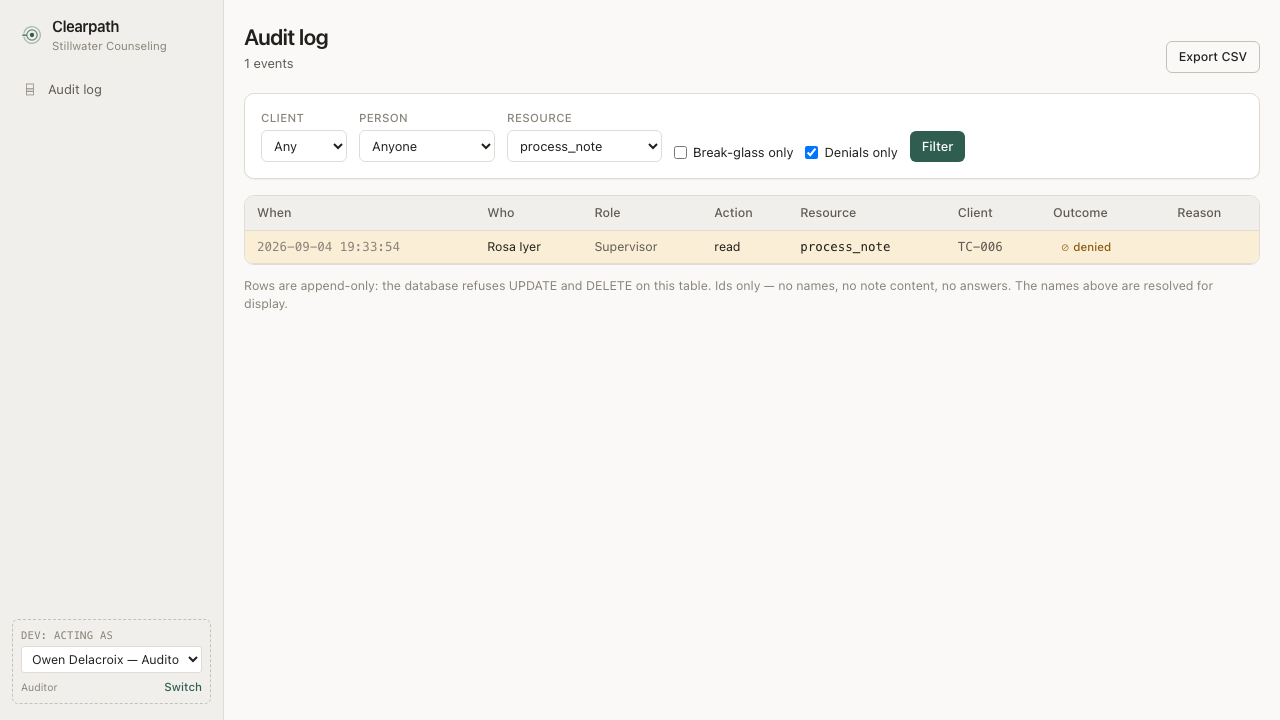
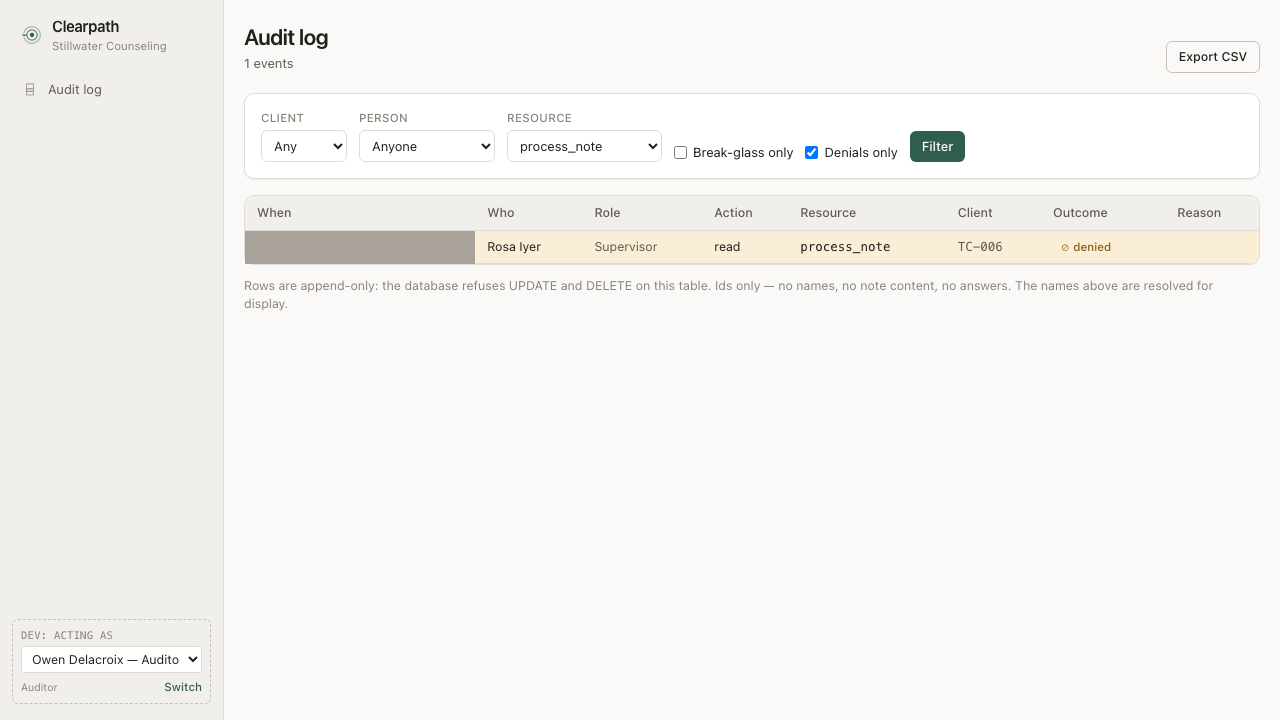
The one picture that could never pass twice
The gate is green — 1,252 unit tests, 18 e2e specs against a production
build — but `npm run shots` left `audit-log.png` modified on every run.
The seed is date-pinned, so three of the four captures are byte-identical
run to run; the audit row's stamp is not, because `AuditEvent.at` defaults
to the database clock rather than the app's injected one. That default is
correct — the audit timestamp is the one value the application should not
get to choose — so the fix belongs in the capture, not the seed.

A picture that always differs teaches you to ignore the time it differs
for a reason, which is how the deleted status tokens got through.

Changed region(s): [[0.1875, 0.3056, 0.375, 0.3667]]

diff --git a/e2e/screenshots.spec.ts b/e2e/screenshots.spec.ts
@@ -43,6 +43,14 @@ test.describe('README screenshots', () => {
     await actAs(page, USERS.auditor);
     await page.goto('/audit?denied=1&resource=process_note');
     await expect(page.getByRole('heading', { name: 'Audit log' })).toBeVisible();
-    await page.screenshot({ path: `${shot}/audit-log.png` });
+    // Every other pixel here is deterministic — the seed is date-pinned. The
+    // audit row's stamp is not, because `at` defaults to the database clock
+    // rather than the app's, which is the one timestamp the app should not get
+    // to choose. Masked, so a diff on this picture means the product moved.
+    await page.screenshot({
+      path: `${shot}/audit-log.png`,
+      mask: [page.locator('tbody td:first-child')],
+      maskColor: '#a8a29a',
+    });
   });
 });

diff --git a/WRITEUP.md b/WRITEUP.md
@@ -486,6 +486,7 @@ opens.
 | Nine list pages rendered their refusals as crashes | The record pages caught `Forbidden` and showed a panel; the list pages never did, so any role could reach a 500 by typing a URL — `/audit` as a supervisor, `/clients` as the auditor, `/book` as the practice manager. Every permission decision was correct and every denial was audit-logged. The failure was in the last inch, which is the worst place for it in a project whose argument is that refusal is a designed, visible outcome rather than a fault. `withDenial` wraps the whole component rather than one query, because these pages fetch twice — a list, then the names to label it with — and a `try` around the first leaves the second free to throw past it |
 | The denial spec walks the route tree instead of naming routes | Eight pages were found by hand and the ninth, `/book/group`, was found by the spec on its first run — a page nobody thought to open. Enumerating routes would have encoded the same blind spot the bug came from: each of the eight was written *after* the pattern that would have saved it, and a list of names cannot cover the page written next month. Reading `app/(staff)` from disk means a new page is covered the day it lands, which is the same reason the role-check and author-only rules are lints over the tree rather than tests over a list |
 | Deploying meant admitting the demo needs a cloud database | Two guards refused one outright — `prisma.config.ts` for the CLI, `src/db.ts` for the running app — and the second would have taken the site down on its first request rather than at build time. The exemption is a named variable rather than a hostname allow-list, set by the Vercel build and the two `:prod` scripts and nothing else, because the case worth walling off is the accident: a mistyped `.env.test` pointing a sweep at a cloud branch, which never announces itself. The deployed practice is the same seeded fiction as `npm run db:seed` |
+| The audit screenshot masks its timestamp | The three other captures are byte-identical run to run, because the seed is date-pinned; this one moved every time, and a picture that always differs teaches you to ignore the one time it differs for a reason — the same trap as a flaky test. The cause is not a defect: `AuditEvent.at` defaults to the database clock rather than the app's injected one, which is the single timestamp the application should not be able to choose. So the shot boxes the cell out instead, and the README says why |
 
 ## What this project deliberately is not
 

diff --git a/README.md b/README.md
@@ -113,7 +113,7 @@ person — see **Known limitations**. Authorization is real either way.
 4. Act as **Owen Delacroix** (auditor) → **Audit log** → both events are there,
    the co-signature and the refusal.
 
-   ![The audit log filtered to denials of process notes, showing one row: a supervisor's read, denied. Ids only — no names, no note content, no answers.](docs/screenshots/audit-log.png)
+   ![The audit log filtered to denials of process notes, showing one row: a supervisor's read, denied. Ids only — no names, no note content, no answers. The When cell is boxed out in the capture: the audit table stamps `at` from the database clock, so it is the one value that moves between seed runs.](docs/screenshots/audit-log.png)
 
 `e2e/confidentiality.spec.ts` is that walkthrough as a test.
 
